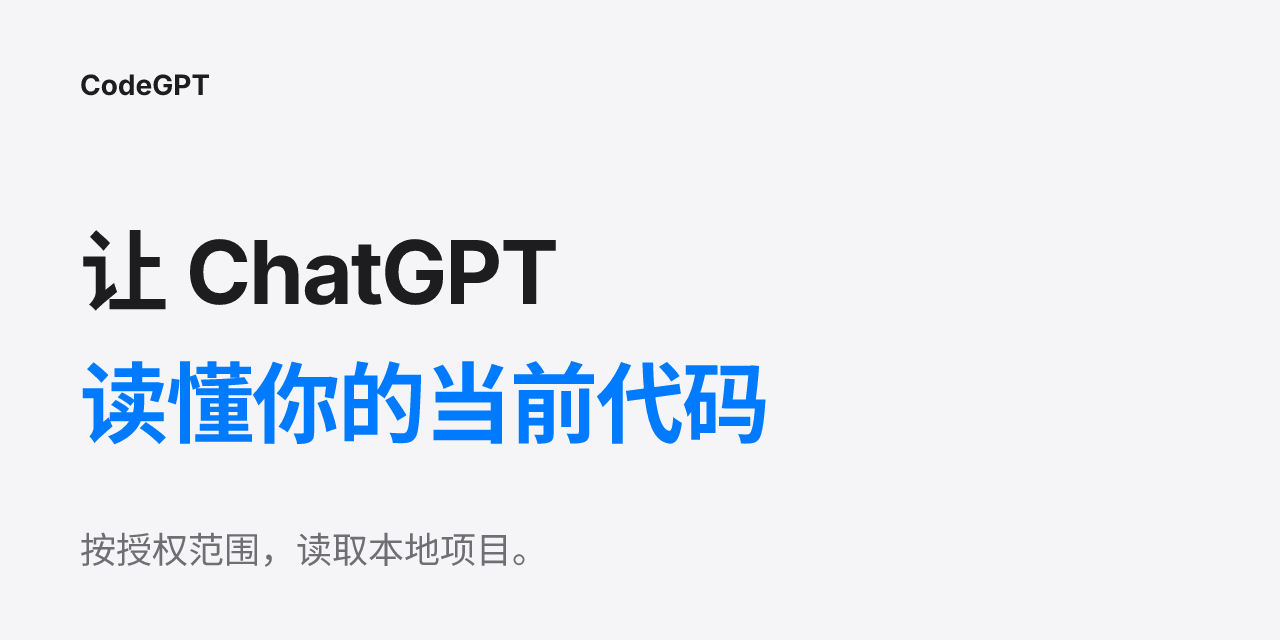
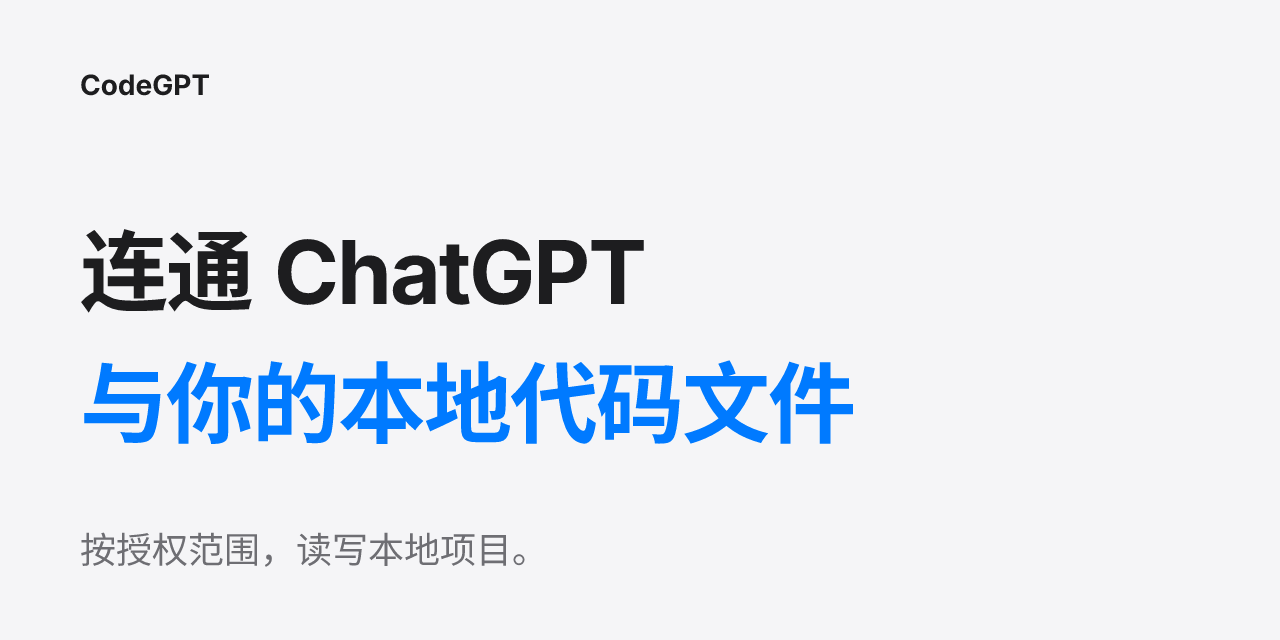
docs: highlight real ChatGPT workflows and refresh hero copy

Changed region(s): [[0.0625, 0.5625, 0.6875, 0.7188], [0.0625, 0.3438, 0.5, 0.5], [0.25, 0.8125, 0.2812, 0.875]]

diff --git a/site/index.html b/site/index.html
@@ -1,5 +1,5 @@
 <!doctype html>
-<html lang="zh-CN"><head><meta charset="utf-8"><meta name="viewport" content="width=device-width,initial-scale=1"><title>CodeGPT · 让 ChatGPT 阅读当前代码</title><meta name="description" content="本机运行的轻量 MCP，按项目授权检索当前代码，提供配置与连接恢复。"><style>
+<html lang="zh-CN"><head><meta charset="utf-8"><meta name="viewport" content="width=device-width,initial-scale=1"><title>CodeGPT · 连通 ChatGPT 与本地代码文件</title><meta name="description" content="本机运行的轻量 MCP，按项目授权检索当前代码，提供配置与连接恢复。"><style>
 :root{color-scheme:light dark;--bg:#fff;--fg:#1d1d1f;--muted:#61616a;--line:#e5e5ea;--soft:#f5f5f7;--link:#0066cc}
 *{box-sizing:border-box}html{scroll-behavior:auto}body{margin:0;background:var(--bg);color:var(--fg);font:16px/1.8 -apple-system,BlinkMacSystemFont,"Segoe UI","Microsoft YaHei",sans-serif}
 header{border-bottom:1px solid var(--line);padding:14px max(24px,calc((100vw - 980px)/2));display:flex;justify-content:space-between;gap:16px;font-size:14px}header a{white-space:nowrap;text-decoration:none}header strong{letter-spacing:-.02em}
@@ -7,17 +7,27 @@ main{max-width:980px;margin:56px auto 80px;padding:0 28px}h1{font-size:42px;line
 table{border-collapse:collapse;width:100%;font-size:14px;margin:24px 0;display:block;overflow-x:auto}th{text-align:left;background:var(--soft)}td,th{padding:12px 16px;border:1px solid var(--line);vertical-align:top}th{white-space:nowrap}pre{overflow:auto;padding:20px 24px;background:var(--soft);border-radius:14px;font-size:13px;line-height:1.6}code{font-family:ui-monospace,Consolas,monospace}p code,td code{font-size:.88em;background:var(--soft);padding:2px 5px;border-radius:4px;overflow-wrap:anywhere}li{margin:8px 0}details{border-top:1px solid var(--line);margin-top:30px;padding-top:20px}summary{cursor:pointer;color:var(--muted)}footer{padding:28px;border-top:1px solid var(--line);text-align:center;font-size:13px;color:var(--muted)}
 @media(prefers-color-scheme:dark){:root{--bg:#161617;--fg:#f5f5f7;--muted:#a1a1a8;--line:#39393e;--soft:#232326;--link:#71b6ff}}
 @media(max-width:640px){main{margin-top:32px;padding:0 20px}h1{font-size:34px}h2{font-size:25px;margin-top:48px}h3{font-size:20px}header{padding:12px 20px}body{font-size:15px}td,th{padding:10px}pre{padding:16px;font-size:12px}img{border-radius:12px}}
+
+.real-cases{display:grid;grid-template-columns:1fr 1.5fr 1fr;gap:16px;margin:24px 0}.real-case{min-width:0;border:1px solid var(--line);border-radius:16px;overflow:hidden;background:var(--bg)}.real-case.featured{border-color:var(--link);background:var(--soft)}.real-case .case-copy{padding:18px 18px 12px}.real-case h3{margin:0 0 7px;font-size:17px;line-height:1.5}.real-case p{margin:0;color:var(--muted);font-size:13px;line-height:1.7}.case-kicker{font-size:11px;color:var(--link);font-weight:650;letter-spacing:.06em;margin-bottom:7px}.case-image{display:block;height:225px;overflow:hidden;border-top:1px solid var(--line);background:#fff}.real-case img{width:100%;height:100%;object-fit:cover;object-position:center 30%;border:0;border-radius:0;margin:0}.featured .case-image{height:275px}.featured img{object-position:center 57%;transform:scale(1.22);transform-origin:50% 55%}.case-note{font-size:13px;color:var(--muted)}
+@media(max-width:640px){.real-cases{grid-template-columns:1fr}.real-case.featured{order:-1}.case-image,.featured .case-image{height:260px}.real-case img{object-fit:cover;object-position:center 35%}.featured img{object-position:center 57%;transform:scale(1.22);transform-origin:50% 55%}}
 </style></head><body><header><strong>CodeGPT</strong><a href="https://github.com/SHlTbro/CodeGPT">GitHub 源码</a></header><main><h1 align="center">CodeGPT</h1>
-<p align="center">让 ChatGPT 按授权范围，检索和阅读你本地项目的当前代码。</p>
+<p align="center">连通 ChatGPT 与你的本地代码文件，按授权范围读写本地项目。</p>
 <p align="center">
-  <img src="assets/codegpt-hero.png" width="100%" alt="CodeGPT：让 ChatGPT 读懂当前代码，按授权范围读取本地项目">
+  <img src="assets/codegpt-hero.png" width="100%" alt="CodeGPT：连通ChatGPT与你的本地代码文件，按授权范围读写本地项目">
 </p>
 <p>CodeGPT 把本地项目接入 ChatGPT，让你在对话中查找文件、理解实现、查看 Git 改动。它在你的电脑上运行，按登记的项目和权限提供当前代码；连接和项目通过本机配置页管理，默认只读，需要写入时再单独授权。</p>
 <p><strong>模型负责思考，MCP 提供事实，用户掌握决策。</strong> 原始文件留在本机；工具返回的代码片段会传给所连接的模型服务端。</p>
 <p><strong>19 工具版发布预览：</strong> 版本范围为 15 个 Core 工具，加 4 个 Codex CLI 业务工具。当前安装包可运行的默认入口仍是 Core 15；新增四工具的统一接入正在完成，尚未作为可执行能力发布。以下逐项区分已可用与待接线。</p>
 <h2>本页导航</h2>
-<p><a href="#capabilities">能做什么</a> · <a href="#interface">配置页面</a> · <a href="#workflow">工作流程</a> · <a href="#architecture">系统架构与技术栈</a> · <a href="#quick-start">快速开始</a> · <a href="#connect">连接 ChatGPT</a> · <a href="#permissions">权限与配置</a> · <a href="#recovery">故障恢复</a> · <a href="#limits">验证与限制</a> · <a href="#resources">许可与资源</a></p>
-<p><a name="capabilities"></a></p>
+<p><a href="#real-world">实机效果</a> · <a href="#capabilities">能做什么</a> · <a href="#interface">配置页面</a> · <a href="#workflow">工作流程</a> · <a href="#architecture">系统架构与技术栈</a> · <a href="#quick-start">快速开始</a> · <a href="#connect">连接 ChatGPT</a> · <a href="#permissions">权限与配置</a> · <a href="#recovery">故障恢复</a> · <a href="#limits">验证与限制</a> · <a href="#resources">许可与资源</a></p>
+<p><a name="real-world"></a><h2>在 ChatGPT 网页版里，直接操作本地项目</h2>
+<p>用户提供的实机记录：从读取项目，到把修改写回本地。点击图片可放大查看原始记录。</p>
+<div class="real-cases">
+<article class="real-case"><div class="case-copy"><div class="case-kicker">理解项目</div><h3>读取代码，梳理架构</h3><p>一次提问，按需批量读取项目文件，为架构分析提供当前代码。</p></div><a class="case-image" href="assets/case-project-reading.png" aria-label="放大项目批量读取实机记录"><img src="assets/case-project-reading.png" alt="项目批量读取的真实返回记录" loading="lazy"></a></article>
+<article class="real-case featured"><div class="case-copy"><div class="case-kicker">重点案例 · 受控写入</div><h3>多文件修改，直接写回本机</h3><p>网页版 ChatGPT 按授权修改本地文件，文档与关联修改实际保存在项目目录。</p></div><a class="case-image" href="assets/case-local-writing.png" aria-label="放大多文件写入实机变更清单"><img src="assets/case-local-writing.png" alt="ChatGPT 网页版直接修改本地多个文件的实际变更清单" loading="lazy"></a></article>
+<article class="real-case"><div class="case-copy"><div class="case-kicker">推进工作</div><h3>在对话中推进本地项目</h3><p>结合本地资料分析需求，整理任务卡、依赖关系与交付文件。</p></div><a class="case-image" href="assets/case-project-interaction.png" aria-label="放大本地项目交互实机记录"><img src="assets/case-project-interaction.png" alt="网页对话中完成项目任务拆分与交付文件整理" loading="lazy"></a></article>
+</div><p class="case-note">读取规模与分析效果取决于项目、模型及预算；写入仍需逐项目授权并通过服务端校验。</p>
+<a name="capabilities"></a></p>
 <h2>能做什么</h2>
 <p>适合需要在对话中理解多个本地仓库、检查当前改动或整理项目文档的开发者。它不预先上传整仓，不建立代码索引数据库；模型问到哪里，工具读取到哪里。</p>
 <table>
